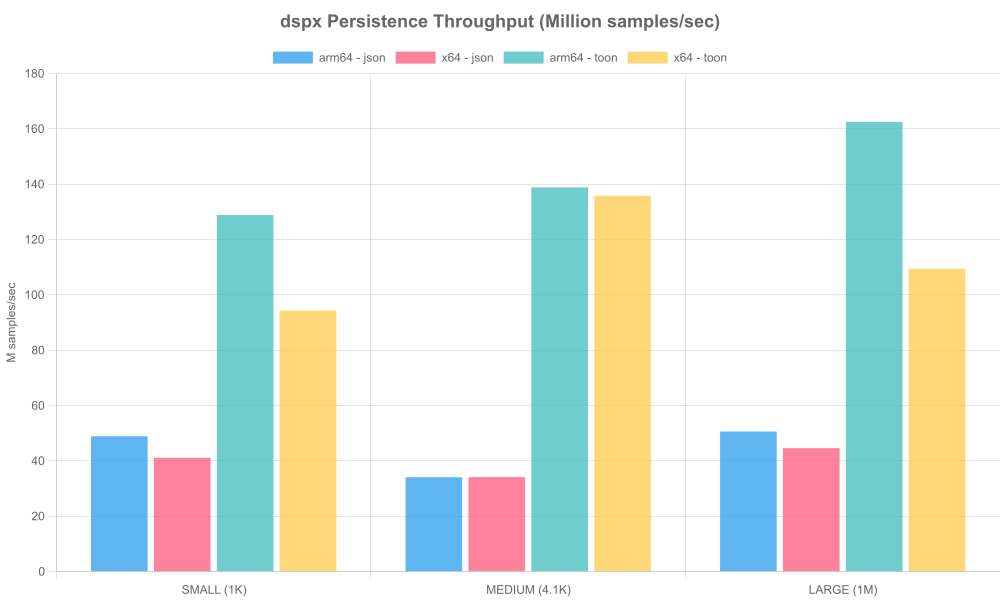
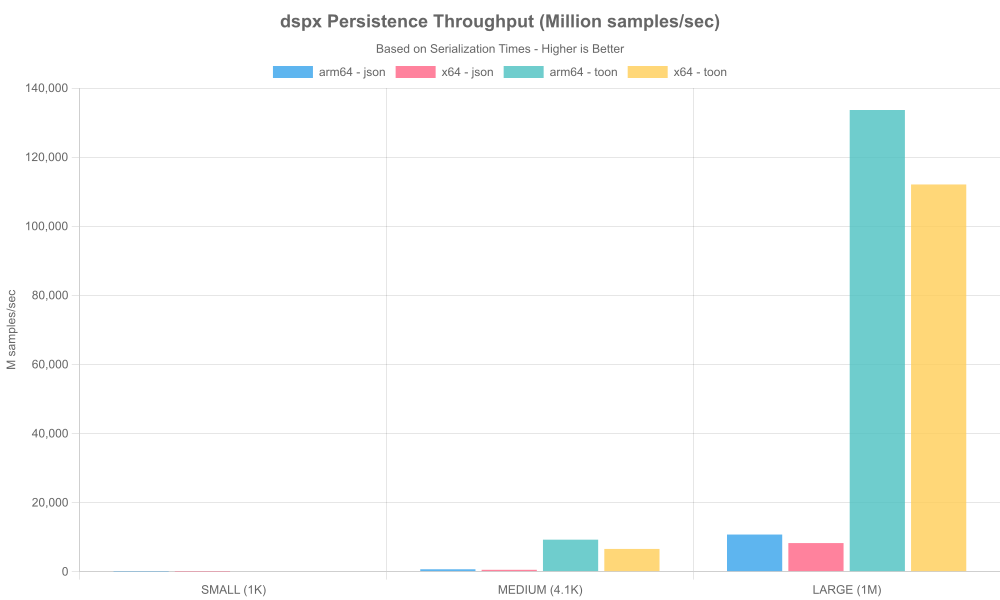
Update AWS Lambda persistence benchmark results and charts to include serialization and deserialization metrics

diff --git a/scripts/plot-lambda.js b/scripts/plot-lambda.js
@@ -219,6 +219,10 @@ async function generatePersistenceChart() {
           text: "dspx Persistence Throughput (Million samples/sec)",
           font: { size: 18, weight: "bold" },
         },
+        subtitle: {
+          display: true,
+          text: "Based on Serialization Times - Higher is Better",
+        },
       },
       scales: {
         y: {
@@ -473,16 +477,30 @@ async function generatePersistenceLatencyArm64Chart() {
       labels,
       datasets: [
         {
-          label: "JSON",
-          data: data.arm64.map((d) => d.json.avg_ms),
+          label: "JSON - Serialization",
+          data: data.arm64.map((d) => d.json.avg_ser_ms),
           backgroundColor: "rgba(54, 162, 235, 0.8)",
           borderColor: "rgb(54, 162, 235)",
           borderWidth: 1,
         },
         {
-          label: "TOON",
-          data: data.arm64.map((d) => d.toon.avg_ms),
+          label: "JSON - Deserialization",
+          data: data.arm64.map((d) => d.json.avg_des_ms),
+          backgroundColor: "rgba(54, 162, 235, 0.5)",
+          borderColor: "rgb(54, 162, 235)",
+          borderWidth: 1,
+        },
+        {
+          label: "TOON - Serialization",
+          data: data.arm64.map((d) => d.toon.avg_ser_ms),
           backgroundColor: "rgba(75, 192, 192, 0.8)",
+          borderColor: "rgb(75, 192, 192)",
+          borderWidth: 1,
+        },
+        {
+          label: "TOON - Deserialization",
+          data: data.arm64.map((d) => d.toon.avg_des_ms),
+          backgroundColor: "rgba(75, 192, 192, 0.5)",
           borderColor: "rgb(75, 192, 192)",
           borderWidth: 1,
         },
@@ -492,12 +510,12 @@ async function generatePersistenceLatencyArm64Chart() {
       plugins: {
         title: {
           display: true,
-          text: "Persistence Average Latency — arm64 (AWS Lambda)",
+          text: "Persistence Latency — arm64 (AWS Lambda)",
           font: { size: 18, weight: "bold" },
         },
         subtitle: {
           display: true,
-          text: "Average latency (ms) - Lower is Better",
+          text: "Serialization & Deserialization (ms) - Lower is Better",
         },
       },
       scales: {
@@ -541,16 +559,30 @@ async function generatePersistenceLatencyX64Chart() {
       labels,
       datasets: [
         {
-          label: "JSON",
-          data: data.x64.map((d) => d.json.avg_ms),
+          label: "JSON - Serialization",
+          data: data.x64.map((d) => d.json.avg_ser_ms),
           backgroundColor: "rgba(255, 99, 132, 0.8)",
           borderColor: "rgb(255, 99, 132)",
           borderWidth: 1,
         },
         {
-          label: "TOON",
-          data: data.x64.map((d) => d.toon.avg_ms),
+          label: "JSON - Deserialization",
+          data: data.x64.map((d) => d.json.avg_des_ms),
+          backgroundColor: "rgba(255, 99, 132, 0.5)",
+          borderColor: "rgb(255, 99, 132)",
+          borderWidth: 1,
+        },
+        {
+          label: "TOON - Serialization",
+          data: data.x64.map((d) => d.toon.avg_ser_ms),
           backgroundColor: "rgba(255, 205, 86, 0.8)",
+          borderColor: "rgb(255, 205, 86)",
+          borderWidth: 1,
+        },
+        {
+          label: "TOON - Deserialization",
+          data: data.x64.map((d) => d.toon.avg_des_ms),
+          backgroundColor: "rgba(255, 205, 86, 0.5)",
           borderColor: "rgb(255, 205, 86)",
           borderWidth: 1,
         },
@@ -560,12 +592,12 @@ async function generatePersistenceLatencyX64Chart() {
       plugins: {
         title: {
           display: true,
-          text: "Persistence Average Latency — x64 (AWS Lambda)",
+          text: "Persistence Latency — x64 (AWS Lambda)",
           font: { size: 18, weight: "bold" },
         },
         subtitle: {
           display: true,
-          text: "Average latency (ms) - Lower is Better",
+          text: "Serialization & Deserialization (ms) - Lower is Better",
         },
       },
       scales: {
